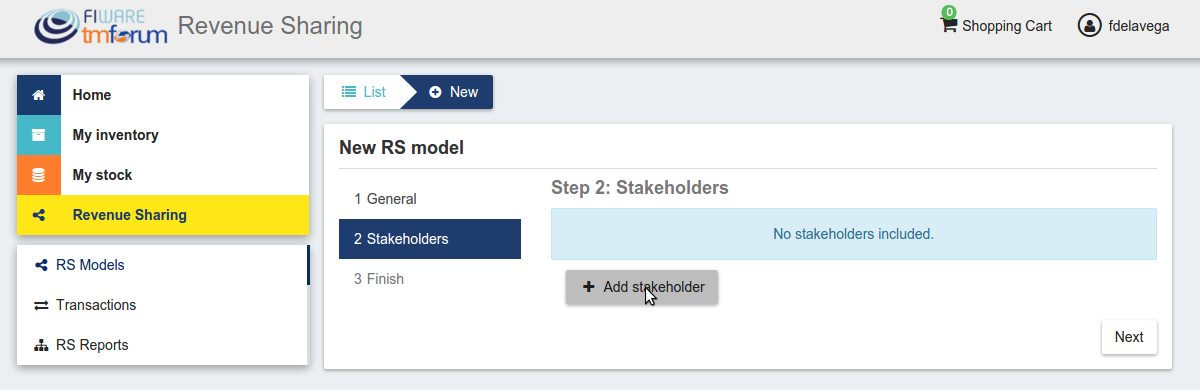
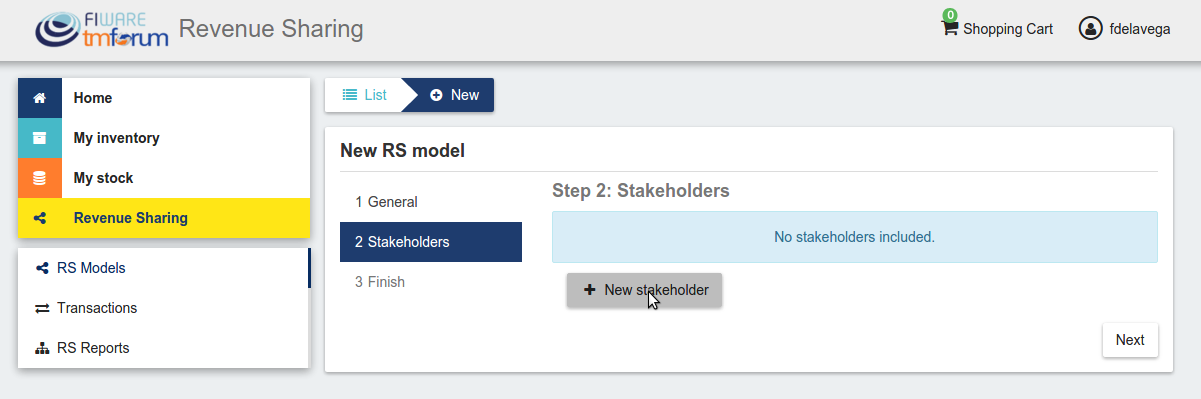
Update RS models section of the user guide

diff --git a/doc/user-programmer-guide.rst b/doc/user-programmer-guide.rst
@@ -437,7 +437,7 @@ you have to update its status to *Launched*
 Manage Revenue Sharing Models
 -----------------------------
 
-Revenue Sharing Models specify how the revenues generated by an offering or set of offerings must be distributed between,
+Revenue Sharing Models specify how the revenues generated by an offering or set of offerings must be distributed between
 the owner of the Business API Ecosystem instance, the provider of the offering, and the related stakeholders involved.
 
 To manage RS models go to the *Revenue Sharing* section.
@@ -462,12 +462,12 @@ you want to receive. The platform percentage is fixed and cannot be modified. On
 .. image:: /images/user/revenue4.png
    :align: center
 
-In the next step, you can optionally add more stakeholders to the RS model. To do that click on *Add Stakeholder*
+In the next step, you can optionally add more stakeholders to the RS model. To do that click on *New Stakeholder*
 
 .. image:: /images/user/revenue5.png
    :align: center
 
-Then, select the Stakeholder between the available users, and provide its percentage. Finally, save it clicking on *Add Stakeholder*
+Then, select the Stakeholder between the available users, and provide its percentage. Finally, save it clicking on *Create*
 
 .. image:: /images/user/revenue6.png
    :align: center
